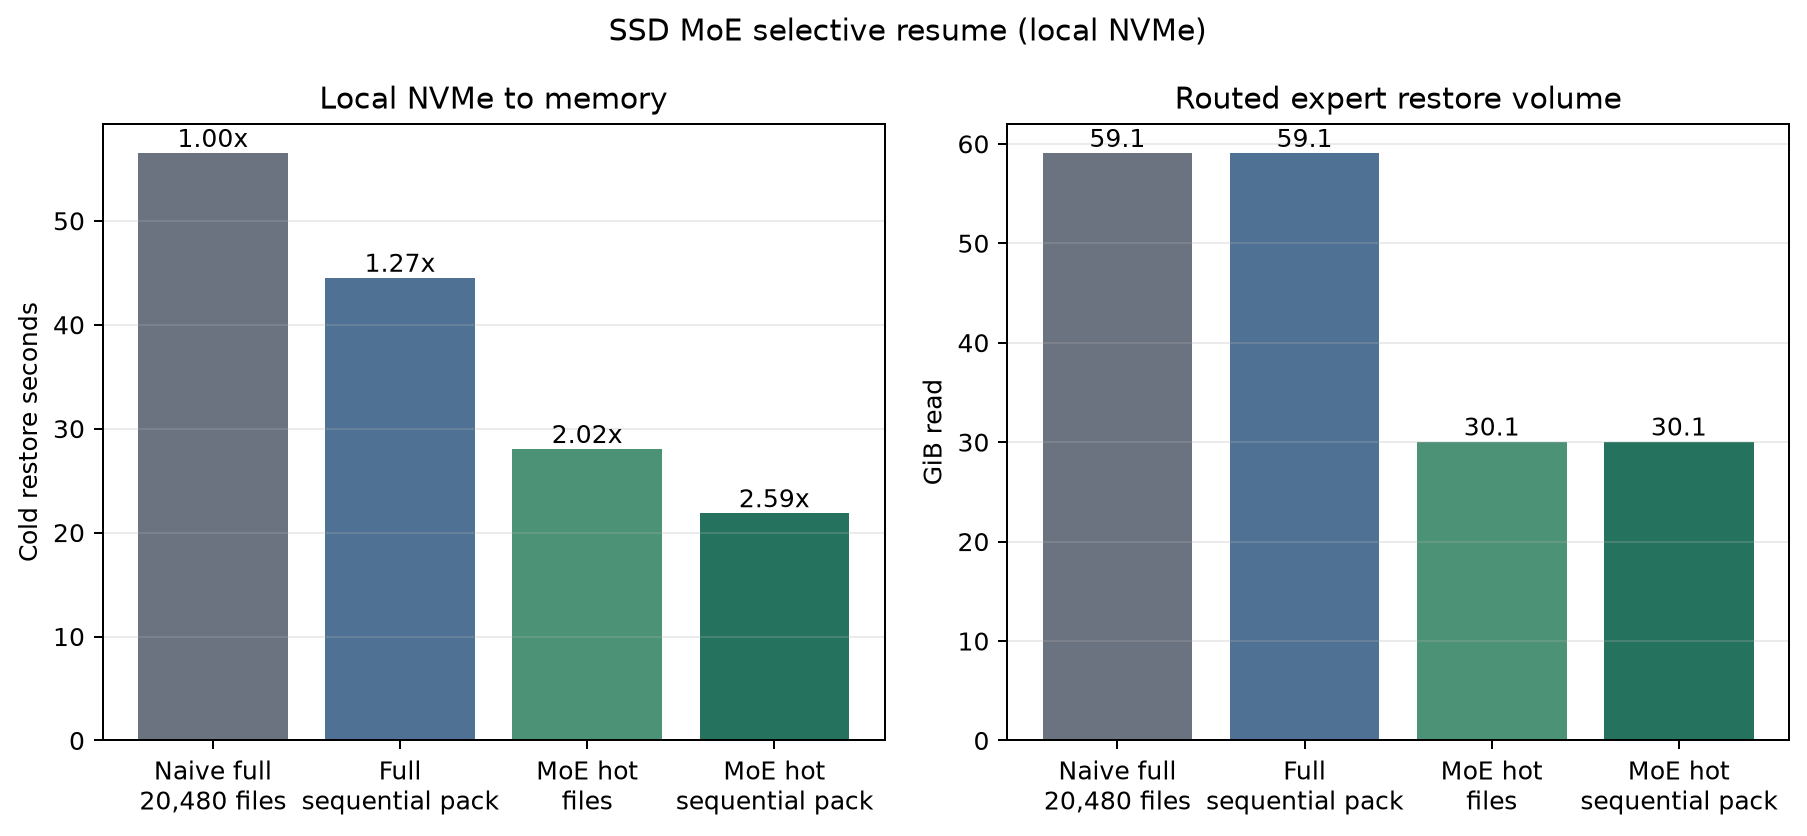
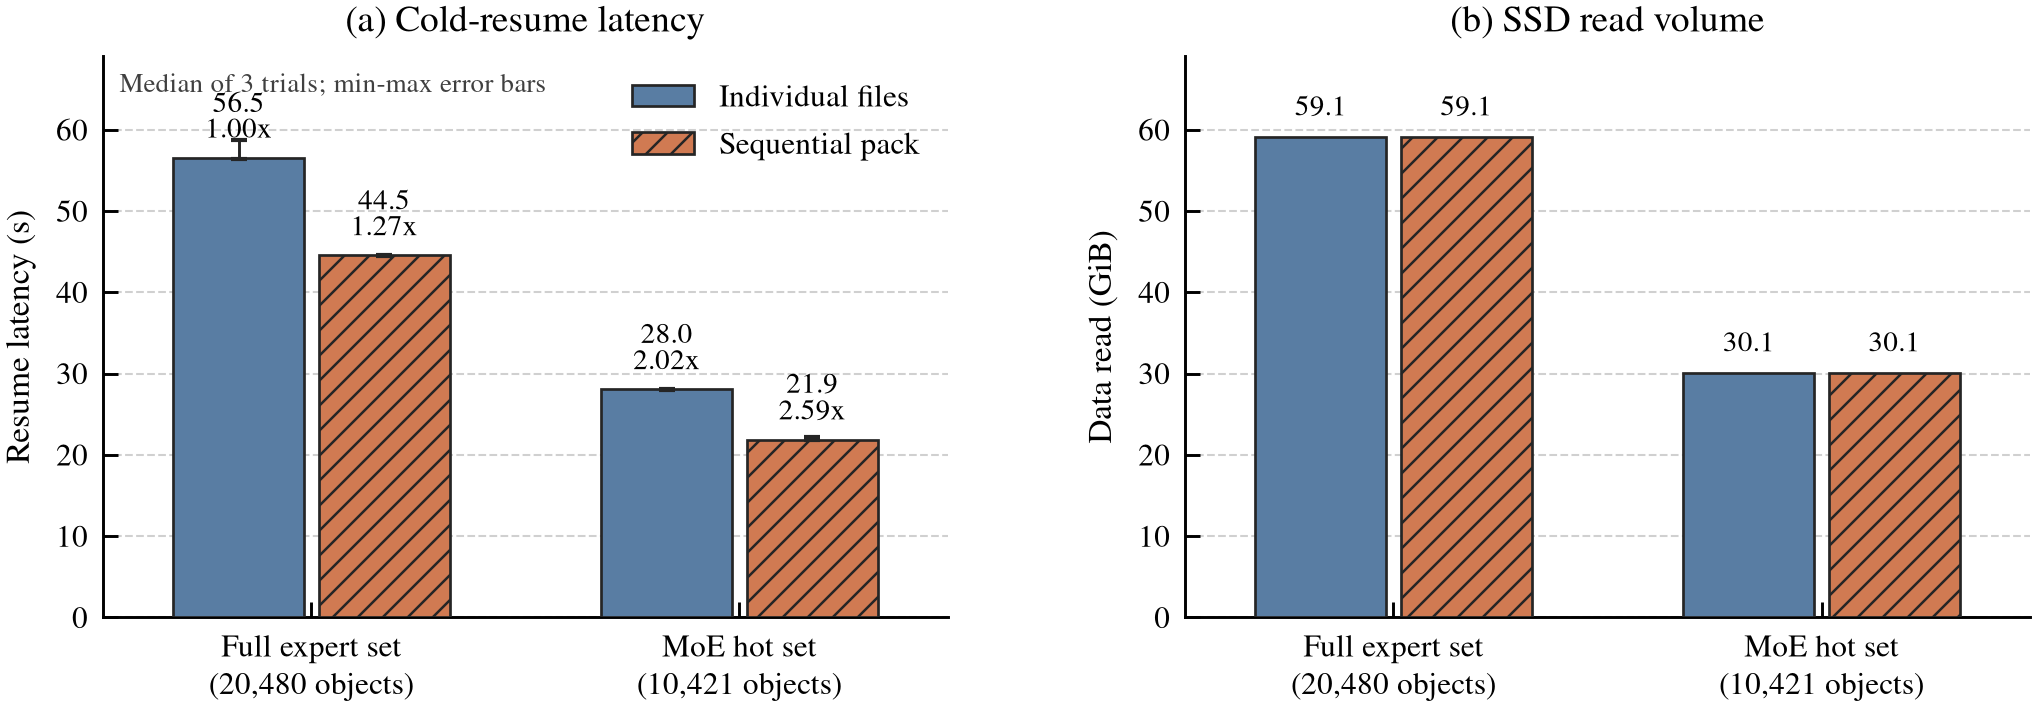
docs: render SSD results as paper figure

diff --git a/scripts/plot_ssd_moe_resume.py b/scripts/plot_ssd_moe_resume.py
@@ -6,15 +6,56 @@ import csv
 import json
 from pathlib import Path
 
+import matplotlib
+
+matplotlib.use("Agg")
 import matplotlib.pyplot as plt
 
 
+ORDER = (
+    "naive_full_files",
+    "naive_full_pack",
+    "moe_hot_files",
+    "moe_hot_pack",
+)
 LABELS = {
-    "naive_full_files": "Naive full\n20,480 files",
-    "naive_full_pack": "Full\nsequential pack",
-    "moe_hot_files": "MoE hot\nfiles",
-    "moe_hot_pack": "MoE hot\nsequential pack",
+    "naive_full_files": "Full set / files",
+    "naive_full_pack": "Full set / pack",
+    "moe_hot_files": "MoE hot set / files",
+    "moe_hot_pack": "MoE hot set / pack",
 }
+GROUPS = (
+    ("Full expert set\n(20,480 objects)", ORDER[:2]),
+    ("MoE hot set\n(10,421 objects)", ORDER[2:]),
+)
+SERIES = (
+    ("Individual files", "#597DA3", ""),
+    ("Sequential pack", "#D07A52", "////"),
+)
+
+
+def configure_paper_style() -> None:
+    plt.rcParams.update(
+        {
+            "font.family": "serif",
+            "font.serif": ["Nimbus Roman", "Liberation Serif", "DejaVu Serif"],
+            "font.size": 8,
+            "axes.labelsize": 8,
+            "axes.titlesize": 9,
+            "axes.linewidth": 0.7,
+            "xtick.labelsize": 7.5,
+            "ytick.labelsize": 7.5,
+            "legend.fontsize": 7.5,
+            "legend.frameon": False,
+            "xtick.direction": "in",
+            "ytick.direction": "in",
+            "xtick.major.width": 0.7,
+            "ytick.major.width": 0.7,
+            "hatch.linewidth": 0.6,
+            "pdf.fonttype": 42,
+            "ps.fonttype": 42,
+        }
+    )
 
 
 def main() -> None:
@@ -23,8 +64,10 @@ def main() -> None:
     parser.add_argument("--output-dir", type=Path, required=True)
     args = parser.parse_args()
     payload = json.loads(args.input.read_text(encoding="utf-8"))
+    results = payload["results"]
     rows = []
-    for name, result in payload["results"].items():
+    for name in ORDER:
+        result = results[name]
         rows.append(
             {
                 "arm": name,
@@ -45,40 +88,103 @@ def main() -> None:
         writer.writeheader()
         writer.writerows(rows)
 
-    colors = ["#6b7280", "#4f7294", "#4b9277", "#25735e"]
-    figure, axes = plt.subplots(1, 2, figsize=(10.2, 4.7))
-    x = list(range(len(rows)))
-    axes[0].bar(x, [row["seconds"] for row in rows], color=colors)
-    axes[0].set_ylabel("Cold restore seconds")
-    axes[0].set_title("Local NVMe to memory")
-    axes[0].grid(axis="y", alpha=0.25)
-    axes[1].bar(x, [row["gib"] for row in rows], color=colors)
-    axes[1].set_ylabel("GiB read")
-    axes[1].set_title("Routed expert restore volume")
-    axes[1].grid(axis="y", alpha=0.25)
-    labels = [row["label"] for row in rows]
+    configure_paper_style()
+    figure, axes = plt.subplots(1, 2, figsize=(7.1, 2.75))
+    group_centers = [0.0, 1.0]
+    width = 0.34
+    offsets = (-width / 2, width / 2)
+
+    for series_index, (series_label, color, hatch) in enumerate(SERIES):
+        names = [group[1][series_index] for group in GROUPS]
+        positions = [center + offsets[series_index] for center in group_centers]
+        medians = [float(results[name]["median_seconds"]) for name in names]
+        trials = [
+            [float(row["seconds"]) for row in results[name]["trials"]]
+            for name in names
+        ]
+        lower = [median - min(values) for median, values in zip(medians, trials)]
+        upper = [max(values) - median for median, values in zip(medians, trials)]
+        latency_bars = axes[0].bar(
+            positions,
+            medians,
+            width=width * 0.9,
+            label=series_label,
+            color=color,
+            edgecolor="#252525",
+            linewidth=0.65,
+            hatch=hatch,
+            yerr=[lower, upper],
+            error_kw={"ecolor": "#252525", "elinewidth": 0.7, "capsize": 2},
+            zorder=3,
+        )
+        volumes = [int(results[name]["bytes"]) / 1024**3 for name in names]
+        volume_bars = axes[1].bar(
+            positions,
+            volumes,
+            width=width * 0.9,
+            color=color,
+            edgecolor="#252525",
+            linewidth=0.65,
+            hatch=hatch,
+            zorder=3,
+        )
+        for bar, name, median in zip(latency_bars, names, medians):
+            speedup = float(results[name]["speedup_vs_full_files"])
+            axes[0].annotate(
+                f"{median:.1f}\n{speedup:.2f}x",
+                (bar.get_x() + bar.get_width() / 2, bar.get_height()),
+                xytext=(0, 4),
+                textcoords="offset points",
+                ha="center",
+                va="bottom",
+                fontsize=7,
+                linespacing=0.9,
+            )
+        for bar, volume in zip(volume_bars, volumes):
+            axes[1].annotate(
+                f"{volume:.1f}",
+                (bar.get_x() + bar.get_width() / 2, bar.get_height()),
+                xytext=(0, 3),
+                textcoords="offset points",
+                ha="center",
+                va="bottom",
+                fontsize=7,
+            )
+
+    group_labels = [group[0] for group in GROUPS]
     for axis in axes:
-        axis.set_xticks(x, labels)
-    for index, row in enumerate(rows):
-        axes[0].text(
-            index,
-            row["seconds"],
-            f"{row['speedup_vs_files']:.2f}x",
-            ha="center",
-            va="bottom",
-        )
-        axes[1].text(
-            index,
-            row["gib"],
-            f"{row['gib']:.1f}",
-            ha="center",
-            va="bottom",
-        )
-    figure.suptitle("SSD MoE selective resume (local NVMe)")
-    figure.tight_layout()
-    output = args.output_dir / "ssd_moe_resume.png"
-    figure.savefig(output, dpi=180, bbox_inches="tight")
-    print(output)
+        axis.set_xticks(group_centers, group_labels)
+        axis.grid(axis="y", color="#B8B8B8", linestyle="--", linewidth=0.5, alpha=0.65)
+        axis.set_axisbelow(True)
+        axis.spines["top"].set_visible(False)
+        axis.spines["right"].set_visible(False)
+        axis.margins(x=0.1)
+    axes[0].set_title("(a) Cold-resume latency")
+    axes[0].set_ylabel("Resume latency (s)")
+    axes[0].set_ylim(0, 69)
+    axes[0].legend(loc="upper right", ncols=1)
+    axes[0].text(
+        0.02,
+        0.97,
+        "Median of 3 trials; min-max error bars",
+        transform=axes[0].transAxes,
+        ha="left",
+        va="top",
+        fontsize=6.5,
+        color="#404040",
+    )
+    axes[1].set_title("(b) SSD read volume")
+    axes[1].set_ylabel("Data read (GiB)")
+    axes[1].set_ylim(0, 69)
+
+    figure.subplots_adjust(left=0.085, right=0.99, bottom=0.23, top=0.91, wspace=0.28)
+    png_output = args.output_dir / "ssd_moe_resume.png"
+    pdf_output = args.output_dir / "ssd_moe_resume.pdf"
+    figure.savefig(png_output, dpi=300, bbox_inches="tight", pad_inches=0.02)
+    figure.savefig(pdf_output, bbox_inches="tight", pad_inches=0.02)
+    plt.close(figure)
+    print(png_output)
+    print(pdf_output)
 
 
 if __name__ == "__main__":